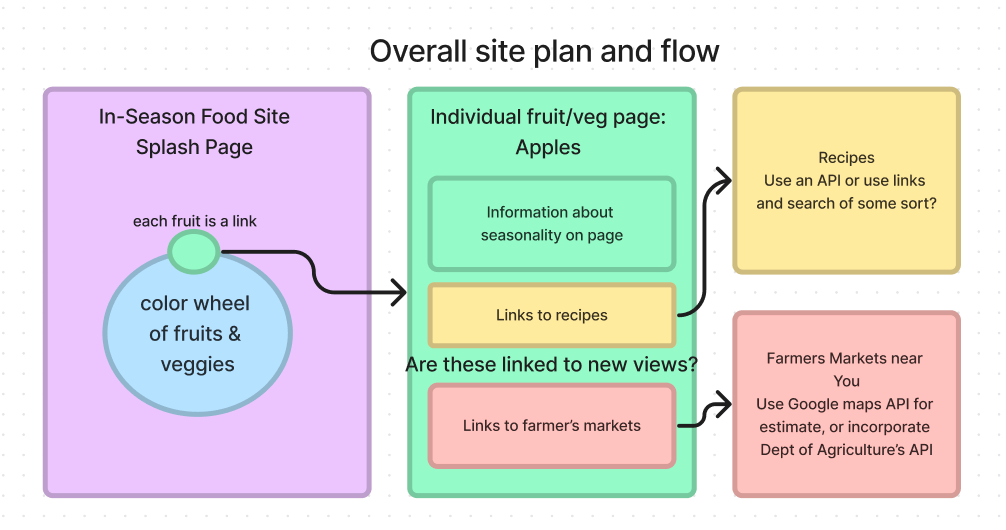
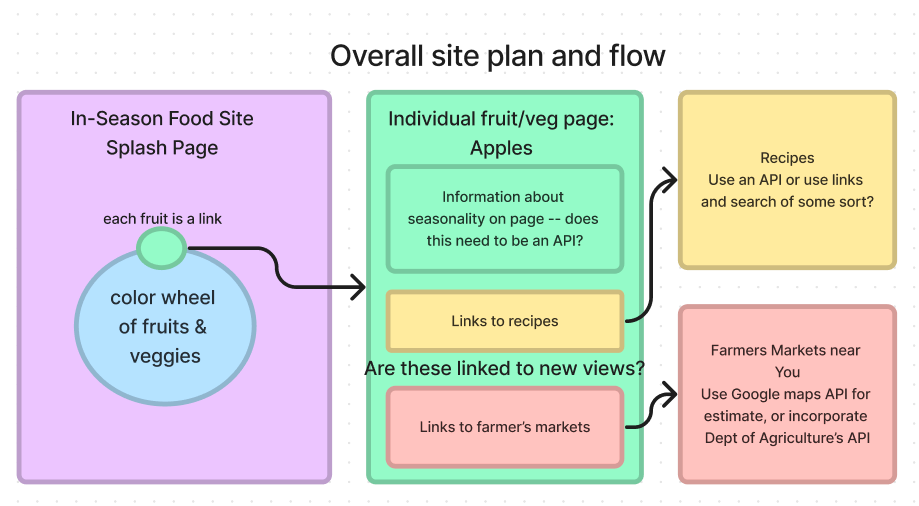
Update Figma plan, Figma site, README

diff --git a/README.md b/README.md
@@ -1,9 +1,24 @@
-# In Season Food site -- title pending
+# In-Season Food Finder -- Work in Progress, title pending
 
+### A site that helps users find information about when fruits and vegetables are in season, recipes using selected fruits and vegetables, and where to find local farmers markets. 
+
+### By: Sarah Andyshak
+
+#### [Known Bugs](#known-bugs)
+#### [License](#license)
 #### [Research Points](#research-points)
 ##### • [Project specific](#project-specific)
 ##### • [Future research](#future-research-or-if-time-today)
 #### [Research Log](#research-and-planning-log)
+
+### Known Bugs:
+
+### License:
+Enjoy the site! If you have questions or suggestions, please contact me!
+
+[MIT](https://github.com/git/git-scm.com/blob/main/MIT-LICENSE.txt)
+
+Copyright (c) 2023 Sarah Andyshak
 
 #### Friday, 28 April 2023
 * Key issue to resolve today: write in C# or React; or both. 
@@ -30,4 +45,5 @@
 * 8:30am: set up [Figma project for planning](https://www.figma.com/file/ZEGbWcXC5QjQC8gzE0UkQT/In-Season-Food-Capstone?node-id=0%3A1&t=v0GHrqAo6qvnaWos-1)
 ![capstone plan](food-site-plan.png)
 * 9am: Write capstone proposal.
-* 9:30am: Research integrating C# and React (part 1).
+* 10am: Research integrating C# and React.
+* 10:50am: Read ahead about Firestorm and React.

diff --git a/capstone-proposal.md b/capstone-proposal.md
@@ -14,7 +14,7 @@
 #### What tools, frameworks, libraries, APIs, modules and/or other resources (whatever is specific to your track, and your language) will you use to create this MVP? List them all here. Be specific.
 * C# and/or React. Currently researching which would be best and how they might be combined.
 * HTML, CSS, probably Bootstrap for styling.
-* APIs:Google Maps OR Department of Agriculture for locating farmers markets; pre-built or create one for recipes -- if I decide not to do this, then I may link to recipe sites -- to be researched.
+* APIs: Google Maps OR Department of Agriculture for locating farmers markets; pre-built or create one for recipes -- if I decide not to do this, then I may link to recipe sites -- to be researched. I may need to create an API for in-season information.
 
 #### If you finish developing the minimum viable product (MVP) with time to spare, what will you work on next? Describe these features here: Be specific.
 * Depending on how the build goes, APIs may fall into this category.
